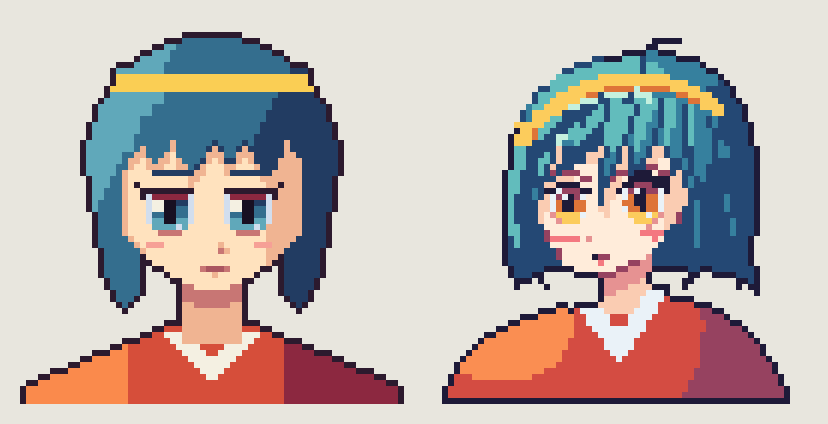
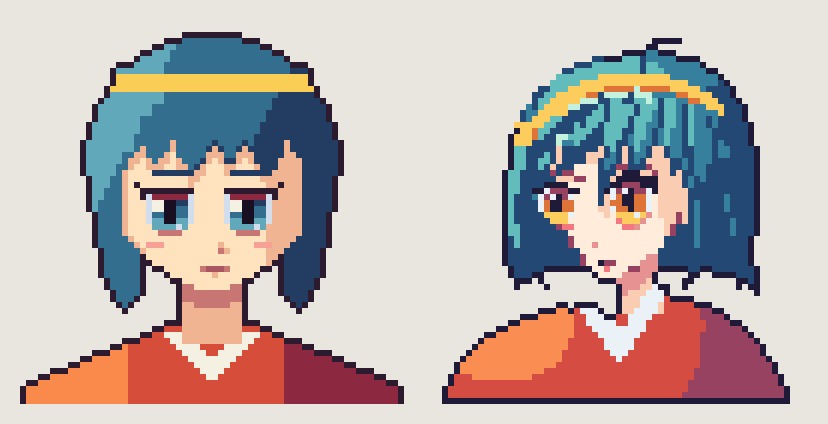
Visage construit en 3D (Loomis + proportions anime) et méthode C12
Tête = sphère + points de mâchoire projetés ; contour par enveloppe convexe,
plan de côté ombré, traits placés depuis la tête. Portraits refaits, planche
de construction à 0/25/45°, comparaison avant/après.

Claude-Session: https://claude.ai/code/session_013wkJTCTwukCLdUSFsReJoa

diff --git a/methode_dessin/test6_portraits/tete.py b/methode_dessin/test6_portraits/tete.py
@@ -1,0 +1,104 @@
+# Tête Loomis simplifiée en 3D, proportions anime (méthode C12).
+# Repère tête : sphère du crâne de rayon 1 centrée en 0 ; x vers la droite du perso vu de face,
+# y vers le bas, z vers nous. On tourne la tête (lacet, tangage, roulis), on projette à plat
+# (pas de perspective : à cette taille elle ne se voit pas) et on en tire, toujours à partir de
+# la forme : le contour du visage, la ligne de mâchoire, le plan de côté et la place des traits.
+import numpy as np
+
+# Hauteurs (rayon = 1, haut du crâne = -1). Anime fille :
+SOURCILS, YEUX, NEZ, BOUCHE, MENTON = .02, .30, .84, 1.06, 1.48
+#  - ligne des yeux un peu sous le milieu de la tête (milieu = .24) ;
+#  - nez à mi-chemin des yeux au menton ; bouche au tiers entre nez et menton.
+# Points de la mâchoire, côté droit (x > 0) ; le côté gauche est le miroir.
+POMMETTE = (.80, .50, .55)   # le « coin » de Loomis : saillie sous l'œil, se voit côté lointain
+GONION = (.62, .98, .00)     # angle de la mâchoire, sous l'oreille, en arrière
+JOUE_BAS = (.40, 1.24, .40)  # milieu de la ligne de mâchoire
+MENTON_C = (.11, 1.45, .52)  # coin du menton : menton étroit et pointu (V)
+PROFIL = {'sourcils': (0, SOURCILS, 1.0), 'yeux': (0, YEUX, .95), 'nez': (0, NEZ, .93),
+          'bouche': (0, BOUCHE, .80), 'menton': (0, MENTON, .55)}
+OREILLE = (.86, .45, -.12)   # centre ; l'oreille va de la ligne des yeux à celle du nez
+
+def rot(lacet, tangage, roulis):
+    a, b, c = np.radians([lacet, tangage, roulis])
+    Ry = np.array([[np.cos(a), 0, -np.sin(a)], [0, 1, 0], [np.sin(a), 0, np.cos(a)]])
+    Rx = np.array([[1, 0, 0], [0, np.cos(b), np.sin(b)], [0, -np.sin(b), np.cos(b)]])
+    Rz = np.array([[np.cos(c), -np.sin(c), 0], [np.sin(c), np.cos(c), 0], [0, 0, 1]])
+    return Rz @ Rx @ Ry
+
+def enveloppe(P):
+    """Enveloppe convexe (chaîne monotone)."""
+    P = sorted(map(tuple, P))
+    def cote(seq):
+        h = []
+        for p in seq:
+            while len(h) >= 2 and (h[-1][0] - h[-2][0]) * (p[1] - h[-2][1]) - (h[-1][1] - h[-2][1]) * (p[0] - h[-2][0]) <= 0:
+                h.pop()
+            h.append(p)
+        return h
+    return cote(P)[:-1] + cote(P[::-1])[:-1]
+
+def miroir(p): return (-p[0], p[1], p[2])
+
+class Tete:
+    def __init__(self, cx, cy, R, lacet=28, tangage=5, roulis=-5):
+        self.cx, self.cy, self.R = cx, cy, R
+        self.M = rot(lacet, tangage, roulis)
+    def tourne(self, p): return self.M @ np.asarray(p, float)
+    def proj(self, p):
+        q = self.tourne(p)
+        return np.array([self.cx + self.R * q[0], self.cy + self.R * q[1], q[2]])
+    def p2(self, p): return tuple(self.proj(p)[:2])
+    def machoire(self):
+        cote = [POMMETTE, GONION, JOUE_BAS, MENTON_C]
+        return cote + [miroir(p) for p in cote] + [PROFIL['menton']]
+    def contour(self):
+        """Contour du visage = enveloppe du cercle du crâne et des points de mâchoire."""
+        a = np.linspace(0, 2 * np.pi, 96, endpoint=False)
+        cercle = [(self.cx + self.R * np.cos(t), self.cy + self.R * np.sin(t)) for t in a]
+        return enveloppe(cercle + [self.p2(p) for p in self.machoire()])
+    def oreille(self, s=1):
+        c = np.array(OREILLE) * (s, 1, 1)
+        a = np.linspace(0, 2 * np.pi, 24, endpoint=False)
+        return [self.p2(c + (0, .27 * np.sin(t), .17 * np.cos(t) + .04 * np.sin(t))) for t in a]
+    def cou(self, bas):
+        """Cou : cylindre étroit planté sous le crâne, un peu en arrière du menton."""
+        h = (bas - self.cy) / self.R
+        a = np.linspace(0, 2 * np.pi, 32)
+        pts = [self.p2((.30 * np.sin(t), y, -.20 + .30 * np.cos(t))) for t in a for y in (.70, h)]
+        return enveloppe(pts)
+    def plan_cote(self, s=1):
+        """Plan de côté de Loomis (tempe → pommette → angle de mâchoire → arrière) :
+        c'est lui qui passe à l'ombre quand la lumière vient de l'autre côté."""
+        pts = [(.74, -.05, .67), (.82, .32, .52), POMMETTE, GONION, (.55, 1.1, -.4), (1.1, .4, -.5), (1.1, -.4, -.3)]
+        return [self.p2(np.array(p) * (s, 1, 1)) for p in pts]
+    def regard(self, s):
+        """Centre de l'œil (sur la sphère), et facteur de raccourci horizontal."""
+        x = .52 * s; p = np.array([x, YEUX, np.sqrt(1 - x * x - YEUX ** 2)])
+        n = self.tourne(p)
+        return self.p2(p), float(max(.45, n[2]))
+    def point(self, nom, dx=0):
+        x, y, z = PROFIL[nom]
+        return self.p2((x + dx, y, z))
+    def guides(self):
+        """Lignes de construction projetées, et visibles (z > 0)."""
+        g = {}
+        def arc(f, ts):
+            out = []
+            for t in ts:
+                q = self.proj(f(t)); out.append((q[0], q[1], q[2]))
+            return out
+        T = np.linspace(-np.pi / 2, np.pi / 2, 50)
+        g['cercle'] = [(self.cx + self.R * np.cos(t), self.cy + self.R * np.sin(t), 1) for t in np.linspace(0, 2 * np.pi, 80)]
+        haut = arc(lambda t: (0, -np.cos(t), np.sin(t)), np.linspace(0, np.pi / 2 + np.arcsin(YEUX), 30))
+        g['axe'] = haut + [tuple(self.proj(PROFIL[k])) for k in ('nez', 'bouche', 'menton')]
+        for nom, y in (('sourcils', SOURCILS), ('yeux', YEUX)):
+            r = np.sqrt(1 - y * y)
+            g[nom] = arc(lambda t: (r * np.sin(t), y, r * np.cos(t)), T)
+        for nom in ('nez', 'bouche'):
+            y = PROFIL[nom][1]; w = .62 if nom == 'nez' else .48
+            g[nom] = [tuple(self.proj((x, y, PROFIL[nom][2] - .5 * x * x))) for x in np.linspace(-w, w, 9)]
+        for s in (-1, 1):
+            r = np.sqrt(1 - .7 ** 2)
+            g['cote%+d' % s] = arc(lambda t: (s * .7, r * np.sin(t), r * np.cos(t)), np.linspace(0, 2 * np.pi, 60))
+            g['mach%+d' % s] = [tuple(self.proj(np.array(p) * (s, 1, 1))) for p in (OREILLE, GONION, JOUE_BAS, MENTON_C)] + [tuple(self.proj(PROFIL['menton']))]
+        return g

diff --git a/methode_dessin/test6_portraits/portrait.py b/methode_dessin/test6_portraits/portrait.py
@@ -1,6 +1,7 @@
 # Lina, portrait anime de 3/4, construit en courbes puis passé en pixels (méthode C11).
 import numpy as np
 from vec import *
+from tete import Tete
 
 # 15 couleurs + transparent (GBA). Rampes avec décalage de teinte : ombres vers le violet,
 # lumières vers le jaune ; le contour est un violet-marine, pas du noir.
@@ -13,7 +14,8 @@ PAL = {
  'W': (234, 242, 248),                                                # blanc bleuté
  'r': (250, 142, 82), 'q': (212, 76, 66),                             # veste ; ombre = 4
 }
-TETE = (52, 37, 27)       # centre et rayon de la sphère du crâne (unités)
+TETE = (52, 37, 27)       # sphère qui sert à la lumière des cheveux (unités)
+LOOMIS = Tete(51, 39, 20, lacet=28, tangage=5, roulis=-5)   # la tête construite (C12)
 
 def construire(S):
     k = S / 100
@@ -30,13 +32,13 @@ def construire(S):
     poser(masque(dos, S), 'dos', lumiere - .5)
     veste = chemin((4, 100), ((7, 86), (20, 77), (36, 74)), (50, 77), (63, 71), ((76, 73), (90, 80), (96, 100)))
     poser(masque(veste, S), 'veste', 1.1 - np.hypot(X - 20, (Y - 80) * 1.3) / 34)
-    cou = chemin((45, 60), (59, 57), (60, 76), (45, 77))
-    poser(masque(cou, S), 'cou', 0)
+    poser(masque(LOOMIS.cou(77), S), 'cou', 0)
     col = chemin((39, 74), (51, 90), (65, 69), (60, 68), (51, 82), (45, 73))
     poser(masque(col, S), 'col', 0)
-    visage = chemin((30, 30), ((28, 42), (28, 52), (33, 59)), ((36, 64), (40, 67.5), (44, 68)),
-                    ((52, 67), (62, 60), (67, 52)), ((70, 46), (70, 37), (68, 28)), (50, 22))
-    poser(masque(visage, S), 'peau', 0)
+    poser(masque(LOOMIS.oreille(1), S), 'oreille', 0)
+    visage = masque(LOOMIS.contour(), S)
+    poser(visage, 'peau', 0)
+    poser(visage & masque(LOOMIS.plan_cote(1), S), 'peau', 1)    # val 1 = plan de côté
     calotte = ((X - cx) / 26.5) ** 2 + ((Y - 35) / 25) ** 2 <= 1
     poser(calotte & (Y < 33), 'cal', lumiere)
     meches = [   # (racine, ctrl, ctrl, pointe, largeur) : côtés puis frange, de l'arrière vers l'avant
@@ -85,7 +87,8 @@ def ombrer(lab, val, X, Y, nx, ny, S):
     for d in range(1, max(2, round(2.2 * k)) + 1):
         Z = voisin(round(d * .5), d); sous |= np.char.startswith(Z, 'm') | (Z == 'band')
     G[peau & sous] = '2'
-    G[peau & (X > 62) & (Y > 44)] = '2'                      # joue côté ombre
+    G[peau & (val > .5)] = '2'                               # plan de côté (Loomis) à l'ombre
+    G[lab == 'oreille'] = '2'
     menton = np.zeros((S, S), bool)
     for d in range(1, round(4 * k) + 1): menton |= voisin(0, d) == 'peau'
     G[(lab == 'cou') & menton] = '3'
@@ -174,26 +177,28 @@ def ferme(G, cx, cy, w, h, ext):
     G[round(cy + h * .12) + 1][xo] = 'O'
 
 def visage(G, S, expr='sourire'):
-    k = S / 100
-    P = lambda x, y: (x * k, y * k)
+    """Traits posés depuis la tête 3D : yeux sur la ligne des yeux, nez et bouche sur l'axe."""
+    k = S / 100; T = LOOMIS
+    P = lambda p: (p[0] * k, p[1] * k)
     ew = {48: (4, 5, 5, 6), 64: (6, 7, 7, 8), 96: (9, 11, 11, 12)}[S]
-    oeil(G, *P(37.5, 47.5), ew[0], ew[1], -1, S)          # œil lointain, plus étroit
-    if expr == 'clin': ferme(G, *P(56.5, 47), ew[2], ew[3], 1)
-    else: oeil(G, *P(56.5, 47), ew[2], ew[3], 1, S)
+    (xl, yl), fl = T.regard(-1); (xp, yp), fp = T.regard(1)
+    oeil(G, xl * k, yl * k, ew[0], ew[1], -1, S)          # œil lointain, raccourci
+    if expr == 'clin': ferme(G, xp * k, yp * k, ew[2], ew[3], 1)
+    else: oeil(G, xp * k, yp * k, ew[2], ew[3], 1, S)
     if S >= 64:
         haut = 2 if expr == 'surprise' else 0
-        sourcil(G, 37.5 * k, 47.5 * k - ew[1] / 2 - 1, ew[0] + 1, -1, haut + (1 if S >= 96 else 0))
-        sourcil(G, 57 * k, 47 * k - ew[3] / 2 - 1, ew[2] + 1, 1, haut + (1 if S >= 96 else 0))
-    # joues : bande rose + hachures
-    for (cx, cy, rx) in ((37, 57, 4), (60, 56, 5)):
+        sourcil(G, xl * k, yl * k - ew[1] / 2 - 1, ew[0] + 1, -1, haut + (1 if S >= 96 else 0))
+        sourcil(G, (xp + .5) * k, yp * k - ew[3] / 2 - 1, ew[2] + 1, 1, haut + (1 if S >= 96 else 0))
+    # joues : une bande rose sous chaque œil, sur la pommette
+    for (q, rx) in ((T.p2((-.45, .62, .78)), 3.5), (T.p2((.45, .62, .78)), 5)):
         for y in range(S):
             for x in range(S):
-                if abs((x + .5) / k - cx) / rx + abs((y + .5) / k - cy) / 1.4 <= 1 and G[y][x] in '12':
+                if abs((x + .5) / k - q[0]) / rx + abs((y + .5) / k - q[1]) / 1.4 <= 1 and G[y][x] in '12':
                     G[y][x] = 'k'
-    xn, yn = round(41.5 * k), round(55.5 * k)               # nez : un plan d'ombre
+    xn, yn = [round(v) for v in P(T.point('nez'))]          # nez : un plan d'ombre, côté ombre
     G[yn][xn] = '3'
     if S >= 96: G[yn + 1][xn + 1] = '3'; G[yn - 1][xn - 1] = '1'
-    xm, ym = round(45 * k), round(61.5 * k)                  # bouche ouverte, souriante
+    xm, ym = [round(v) for v in P(T.point('bouche', .06))]  # bouche ouverte, souriante
     B = {48: ['44'], 64: ['O44', '.k'], 96: ['4OOO4', '.Okk', '..k']}[S]
     if S >= 96 and expr == 'clin': B = ['4OOOO4', '.OWkk', '..kk']
     if S >= 96 and expr == 'surprise': B = ['.44', '4OO4', '4Ok4', '.44']; ym -= 1

diff --git a/methode_dessin/test6_portraits/construction.py b/methode_dessin/test6_portraits/construction.py
@@ -1,0 +1,50 @@
+# Planche de construction : têtes chauves (Loomis + proportions anime) à 0°, 25° et 45°.
+import numpy as np
+from PIL import Image, ImageDraw
+from vec import masque
+from tete import Tete
+PEAU = {'1': (255, 236, 218), '2': (250, 204, 178), '3': (230, 146, 146), '4': (150, 66, 96), 'O': (30, 26, 56)}
+
+def chauve(lacet, S=96):
+    T = Tete(50, 36, 24, lacet=lacet)
+    G = np.full((S, S), '.', dtype='<U1')
+    cou = masque(T.cou(98), S); G[cou] = '2'
+    vis = masque(T.contour(), S); G[vis] = '1'
+    cote = masque(T.plan_cote(1), S) & vis; G[cote] = '2'                 # plan de côté à l'ombre
+    # ombre du menton sur le cou : le contour du visage décalé vers le bas
+    sous = np.zeros_like(vis)
+    for d in range(1, 5): sous |= np.roll(vis, d, 0)
+    G[cou & ~vis & sous] = '3'
+    G[vis & ~np.roll(vis, -1, 0) & cou] = '4'                              # trait chaud du menton
+    ore = masque(T.oreille(1), S)
+    if T.tourne((.86, 0, -.12))[2] > -.2:                                   # oreille proche
+        G[ore & (G != '.')] = '2'
+        bord = ore & ~(np.roll(ore, 1, 0) & np.roll(ore, -1, 0) & np.roll(ore, 1, 1) & np.roll(ore, -1, 1))
+        G[bord & (G != '.')] = '4'
+    plein = G != '.'
+    tour = plein & ~(np.roll(plein, 1, 0) & np.roll(plein, -1, 0) & np.roll(plein, 1, 1) & np.roll(plein, -1, 1))
+    G[tour] = 'O'
+    return T, G
+
+def image(lacet, guides, k=4, S=96):
+    T, G = chauve(lacet, S)
+    im = np.full((S, S, 3), 236, np.uint8)
+    for c, rgb in PEAU.items(): im[G == c] = rgb
+    img = Image.fromarray(im).resize((S * k, S * k), Image.NEAREST)
+    if guides:
+        d = ImageDraw.Draw(img); s = S / 100 * k
+        col = {'cercle': (120, 120, 120), 'axe': (40, 110, 220), 'sourcils': (130, 130, 130), 'yeux': (220, 40, 40),
+               'nez': (30, 150, 60), 'bouche': (210, 120, 0)}
+        for nom, c in T.guides().items():
+            vis = [(p[0] * s, p[1] * s) for p in c if p[2] > -.02 or nom.startswith('mach') or nom == 'cercle']
+            if len(vis) > 1: d.line(vis, fill=col.get(nom, (150, 0, 150)), width=2)
+        for sgn in (-1, 1):
+            (x, y), f = T.regard(sgn)
+            d.ellipse([(x - 7 * f) * s, (y - 4) * s, (x + 7 * f) * s, (y + 5) * s], outline=(220, 40, 40), width=2)
+    return img
+
+if __name__ == '__main__':
+    W = Image.new('RGB', (3 * 384, 2 * 384), (255, 255, 255))
+    for i, a in enumerate((0, 25, 45)):
+        W.paste(image(a, True), (i * 384, 0)); W.paste(image(a, False), (i * 384, 384))
+    W.save('construction_tete.png')

diff --git a/methode_dessin/test6_portraits/vec.py b/methode_dessin/test6_portraits/vec.py
@@ -22,7 +22,7 @@ def chemin(*segs):
 def masque(poly, S, u=100):
     """Remplit un polygone (coordonnées en unités 0..u) : test au centre de chaque pixel."""
     k = S / u
-    P = poly * k
+    P = np.asarray(poly, float) * k
     ys, xs = np.mgrid[0:S, 0:S] + .5
     inside = np.zeros((S, S), bool)
     x0, y0 = P[:, 0], P[:, 1]; x1, y1 = np.roll(x0, -1), np.roll(y0, -1)

diff --git a/methode_dessin/METHODE_PIXEL_ART.md b/methode_dessin/METHODE_PIXEL_ART.md
@@ -1,4 +1,4 @@
-# Méthode de pixel art — objets et personnages (v7)
+# Méthode de pixel art — objets et personnages (v8)
 
 On construit d'abord, on détaille ensuite. Cette méthode réunit le dessin classique
 (construction par volumes, ligne d'action, anatomie) et les règles du pixel art
@@ -10,7 +10,7 @@ On construit d'abord, on détaille ensuite. Cette méthode réunit le dessin cla
 - la **partie B** donne les étapes de construction d'un **objet** ;
 - la **partie C** donne les étapes de construction d'un **personnage** (anatomie, visage,
   cheveux) ; **C10** donne les règles par taille (8 à 128 px) ; **C11** donne la méthode du
-  portrait anime (3/4, mèches, yeux, couleurs) ;
+  portrait anime (3/4, mèches, yeux, couleurs) ; **C12** construit le visage (Loomis + anime) ;
 - un dessin suit B ou C pour la construction, puis le pipeline A5 pour les pixels ;
 - la section **A4b** (simplifier) s'applique dès qu'une taille est imposée.
 
@@ -18,8 +18,8 @@ On construit d'abord, on détaille ensuite. Cette méthode réunit le dessin cla
 [I] planches d'anatomie fournies · [C] planches sur les cheveux fournies ·
 [R] recherches (Loomis, Bridgman, Proko, tutoriels d'anticrénelage, de matières et de
 lisibilité d'icônes, simplification des formes) · [P] planches fournies (cheveux, œil, arche,
-cristal, flamme, déclinaisons par taille, projections) · [T1]…[T6] leçons de nos propres tests ·
-[A] analyse de portraits anime en pixel art fournis en exemple (règles reformulées).
+cristal, flamme, déclinaisons par taille, projections) · [T1]…[T7] leçons de nos propres tests ·
+[L] méthode Loomis et tutoriels de visage anime (règles reformulées) · [A] analyse de portraits anime en pixel art fournis en exemple (règles reformulées).
 
 ---
 
@@ -984,6 +984,64 @@ de 8 décisions. Chacune, prise seule, améliore nettement le dessin.
 - Mèche fine qui traverse la joue : elle se lit comme une cicatrice si elle croise le rose
   des joues. Elle doit s'arrêter au-dessus.
 
+## C12. Construire le visage : Loomis + proportions anime [L][R][T7]
+
+Le visage du test 6 était raté : une forme ronde dessinée à la main, bas du visage écrasé,
+mâchoire molle, pas de menton. Le bon ordre : on **construit la tête en volume**, puis on
+tire de ce volume le contour, la mâchoire, les ombres et la place des traits.
+
+### A. La tête en deux pièces (Loomis)
+1. **Une boule pour le crâne.** De côté, on la coupe à plat sur les deux faces : ces
+   « plans de côté » sont des disques (≈ 70 % du rayon depuis le centre). La tempe, la
+   pommette et l'oreille sont sur ce plan.
+2. **L'axe du visage** : une ligne qui passe au milieu du front, du nez et du menton. Elle
+   se courbe avec la boule quand la tête tourne ; c'est elle qui montre où regarde le visage.
+3. **Les lignes en travers**, perpendiculaires à l'axe et courbées sur la boule : sourcils,
+   yeux, base du nez, bouche, menton.
+4. **La mâchoire** est la seconde pièce : du dessous de l'oreille (angle de la mâchoire,
+   placé **en arrière**) jusqu'au menton, en ligne presque droite.
+
+### B. Proportions anime (fille ou jeune garçon), rayon du crâne = 1
+| Repère | Position |
+|---|---|
+| haut du crâne | −1 |
+| sourcils | ≈ 0 (milieu de la boule) |
+| ligne des yeux | ≈ +0,3 : un peu **sous** le milieu de la tête entière |
+| base du nez | à mi-chemin des yeux au menton |
+| bouche | au tiers entre le nez et le menton |
+| menton | ≈ +1,45 à +1,5 |
+| oreille | de la ligne des yeux à celle du nez |
+| écart des yeux | centres à ≈ ±0,5 ; l'écart vaut ~ une largeur d'œil |
+| cou | étroit (≈ 0,6 de rayon de large), planté sous le crâne, **derrière** le menton |
+
+Menton étroit et pointu (forme en V). Garçon plus âgé ou homme : menton plus large et plus
+bas, angle de mâchoire plus marqué. Chibi : la partie menton est moitié plus courte.
+
+### C. La vue de 3/4 (le cas qui rate le plus)
+- Côté **lointain** : le contour descend du crâne, fait une petite **bosse de pommette**
+  juste sous l'œil, puis file droit au menton. On ne voit pas l'angle de la mâchoire.
+- Côté **proche** : le contour suit le crâne jusqu'à l'oreille, puis la mâchoire part de
+  l'oreille et rejoint le menton en ligne longue.
+- L'axe se déplace vers le côté lointain ; l'œil lointain est **plus étroit** (raccourci)
+  et plus près du bord ; le nez dépasse vers le côté lointain.
+- Le plan de côté proche est une **zone d'ombre nette** quand la lumière vient de l'autre
+  côté : de la tempe à la pommette, puis à l'angle de mâchoire.
+- Le cou est décalé vers l'arrière : de 3/4, il part sous l'oreille et la joue, pas sous le menton.
+
+### D. En code (fichier `test6_portraits/tete.py`)
+On place une douzaine de points en 3D (pommettes, angles de mâchoire, coins du menton, axe),
+on tourne la tête (lacet, tangage, roulis) et on projette. **Contour du visage = enveloppe
+convexe du cercle du crâne et des points de mâchoire** : la bosse de pommette côté lointain
+et la ligne de mâchoire côté proche sortent toutes seules. Les yeux, le nez et la bouche
+sont des points 3D projetés ; le raccourci de l'œil lointain vient de l'orientation de
+sa surface. La planche `construction_tete.png` montre la tête chauve à 0°, 25° et 45°.
+
+### E. Contrôle du visage
+- Couvrir les cheveux : la tête chauve doit déjà être juste.
+- Mesurer : yeux un peu sous le milieu, nez à mi-chemin, bouche au tiers.
+- En 3/4 : bosse de pommette côté lointain, mâchoire droite côté proche, menton sur l'axe.
+- Le cou ne part pas du menton.
+
 ---
 
 ## Résumé
@@ -992,7 +1050,7 @@ de 8 décisions. Chacune, prise seule, améliore nettement le dessin.
 volumes et terminateur → simplification (A4b) → forme iconique → silhouette → contour →
 palette → lumière selon la matière → variation de couleur → détails → nettoyage → contrôle en situation.
 
-**Personnage :** intention et références → proportions → pose → volumes → visage →
+**Personnage :** intention et références → proportions → pose → volumes → visage construit (C12) →
 vêtements → cheveux → table par taille (C10) → (portrait anime : C11) → silhouette → contour → palette → ombres à la main → détails →
 nettoyage → contrôle avec la référence.
 
